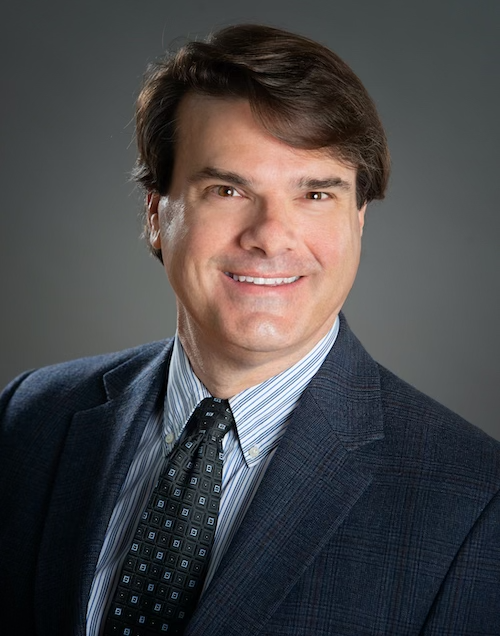
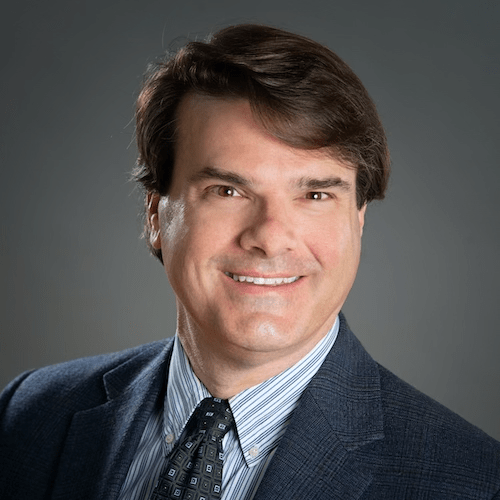
fix: image size on about us page

diff --git a/src/views/pages/AboutUs.jsx b/src/views/pages/AboutUs.jsx
@@ -20,11 +20,7 @@ export default function AboutUs() {
               return user.title != 'Advisor' ? (
                 <div key={idx} className="bg-white p-4 rounded-lg shadow-sm border border-gray-100">
                   {/* image */}
-                  <img
-                    className="h-auto max-w-full object-cover rounded-md hover:object-none hover:object-scale-down"
-                    src={user.image}
-                    alt={user.name}
-                  />
+                  <img className="min-w-full rounded-md" src={user.image} alt={user.name} />
 
                   {/* bio */}
                   <div className="flex flex-col gap-2 mt-5">
@@ -71,19 +67,12 @@ export default function AboutUs() {
           </h2>
           <br />
           <br />
-          <div className="grid grid-cols-1 md:grid-cols-1 lg:grid-cols-3 gap-5">
+          <div className="grid grid-cols-1 md:grid-cols-1 lg:grid-cols-2 gap-5">
             {data.map((user, idx) => {
               return user.title == 'Advisor' ? (
-                <div
-                  key={idx}
-                  className="bg-white p-4 rounded-lg shadow-sm border border-gray-100 items: center;"
-                >
+                <div key={idx} className="bg-white p-4 rounded-lg shadow-sm border border-gray-100">
                   {/* image */}
-                  <img
-                    className="h-auto max-w-full  object-cover rounded-md hover:object-none"
-                    src={user.image}
-                    alt={user.name}
-                  />
+                  <img className="min-w-full rounded-md" src={user.image} alt={user.name} />
 
                   {/* bio */}
                   <div className="flex flex-col gap-2 mt-5">
